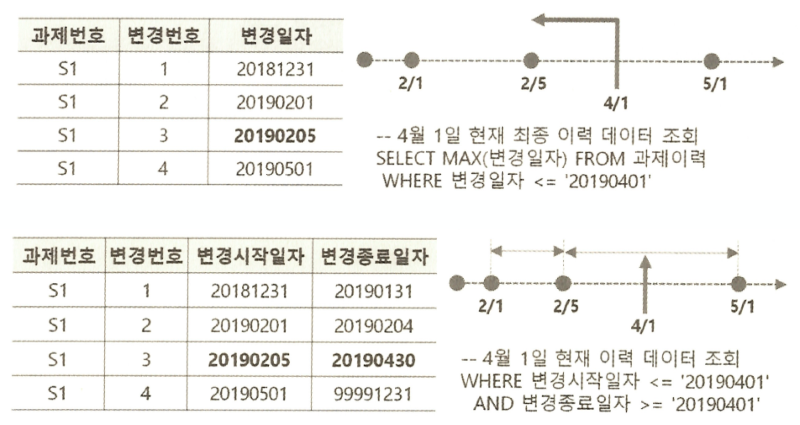
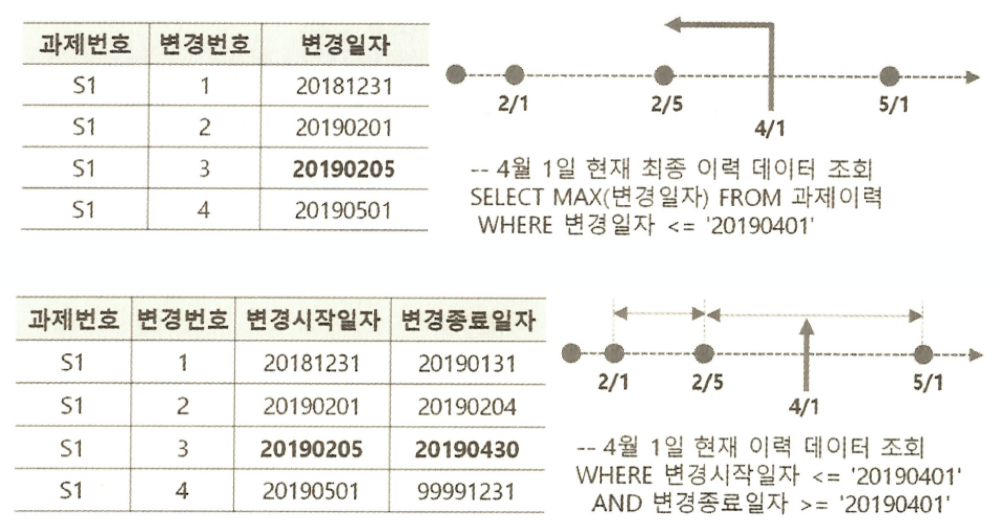
논리 모델링 정리

diff --git a/modeling/03-logical-modeling.md b/modeling/03-logical-modeling.md
@@ -1,51 +1,246 @@
-# 3장. 논리 모델링 — 업무 규칙을 데이터 구조로 표현하기
+# 3장. 논리 모델링
 
-논리 모델링(Logical Data Modeling)은 개념 모델의 핵심 엔티티를 출발점으로 **한 건의 의미, 식별자, 속성, 관계, 허용값**을 구체화하는 단계다. 업무 규칙은 상세히 정하되 특정 DBMS의 저장 방식은 물리 설계에서 결정한다.
+1. [논리 모델링 개요](#1-논리-모델링-개요)
+2. [핵심 엔티티와 파생 엔티티](#2-핵심-엔티티와-파생-엔티티)
+3. [엔티티 도출과 정의](#3-엔티티-도출과-정의)
+4. [엔티티 통합과 데이터 통합](#4-엔티티-통합과-데이터-통합)
+5. [관계, 속성, 식별자, 도메인 도출 및 정의](#5-관계-속성-식별자-도메인-도출-및-정의)
+6. [데이터 모델 검토](#6-데이터-모델-검토)
+7. [데이터 표준화](#7-데이터-표준화)
 
-## 1. 핵심 엔티티에서 상세·상태·이력으로 확장하기
+<br>
 
-핵심 엔티티를 정의할 때는 이름과 함께 **어떤 대상이 언제 한 건으로 등록되는지** 적는다. ‘고객’이라면 비회원도 포함하는지에 따라 데이터의 범위가 달라진다. 유형·분류, 업무 규칙, 주체·대상, 장소도 업무에서 따로 관리하면 엔티티 후보가 된다.
+## 1. 논리 모델링 개요
 
-![품의를 중심으로 거래처·진행상태·첨부파일·내역·이력을 분리한 모델](../assets/images/modeling-derived-entities.png)
+**논리 모델링**(Logical Data Modeling)은 개념 모델링에서 파악한 핵심 엔티티와 주요 관계를 바탕으로, 업무 규칙을 반영해 데이터 구조를 구체화하는 단계다.
 
-*수업 PPT 46쪽. 품의 한 건에 항목이 여러 개면 품의내역에 한 줄씩 기록한다. 거래처와의 연결에 계약금액이 붙으면 그 금액은 품의거래처에서 관리한다.*
+- 비즈니스 전체 영역의 데이터 구조를 상세하게 설계한다.
+- 주제영역 단위로 논리 모델링을 진행한다.
+- 핵심 엔티티를 중심으로 하위 엔티티까지 확장한다.
+- DBMS의 물리적 특성은 물리 모델링에서 고려한다.
+- 개념 모델과 구조적 일관성을 유지한다. 핵심 엔티티나 주요 관계가 달라지면 개념 모델에도 반영한다.
 
-**이력(History)**은 과거 시점의 값을 다시 알아야 할 때 관리한다. 먼저 이력을 남길 속성과 현재값의 저장 위치를 정한다. 현재값을 별도로 보관한다면 이력과 함께 갱신하는 규칙도 필요하다.
+<br>
 
-![같은 날짜의 상태를 변경일자 또는 유효기간으로 찾는 방법](../assets/images/modeling-history.png)
+## 2. 핵심 엔티티와 파생 엔티티
 
-*수업 PPT 47쪽. 4월 1일의 상태를 찾을 때, 점 이력은 그날까지의 마지막 변경(2월 5일)을 찾고, 선분 이력은 그날이 들어가는 기간(2월 5일~4월 30일)을 찾는다. 선분 이력은 같은 대상의 유효기간이 겹치지 않게 관리해야 한다.*
+### 핵심 엔티티
 
-## 2. 엔티티 통합과 관계 정의
+**핵심 엔티티**(Key Entity)는 업무에서 독립적으로 식별하고 관리하는 기준 정보를 말한다.
 
-![개인고객과 법인고객의 공통 속성을 고객으로 통합한 모델](../assets/images/modeling-entity-integration.png)
+- 유형 및 분류(type & category): 고객 유형 코드, 상품 분류(대중소)
+- 업무 규칙 및 지식(rule & knowledge): 보험료 조건, 직급별 연봉, 환불 정책
+- 업무 주체 및 대상(subject & object): 고객, 상품, 사원, 예금
+- 장소(where): 물류창고, 공장, 강의장
 
-*수업 PPT 50쪽. 공통 속성을 상위 유형에 모으는 과정이 일반화(Generalization), 유형별 특성을 하위 유형으로 구체화하는 과정이 특수화(Specialization)다.*
+ex) 고객은 누구인가? 비회원도 고객? 외국인도 고객? 고객을 등록하기 위한 최소한의 정보는?
 
-엔티티를 통합할 때는 이름뿐 아니라 **분류 기준·식별 기준·속성의 의미**도 맞춰야 한다. 관계는 양쪽에서 읽으며 최대 몇 건까지 연결되는지(관계수), 연결이 필수인지(선택성), 부모 식별자가 자식의 식별자에 포함되는지(식별 관계)를 각각 결정한다.
+### 파생 엔티티
 
-## 3. 식별자·속성·도메인 결정하기
+**파생 엔티티**는 핵심 엔티티와 관련된 정보를 별도로 관리하기 위한 엔티티이다. 대표적인 유형으로는 상세, 상태, 이력, 교차 엔티티가 있다.
 
-**수강신청 실습에 적용한 예시** — 한 건을 ‘학생이 특정 훈련과정에 제출한 신청 한 번’으로 정의한 경우다.
+예를 들어, 사무용품 구매 승인을 요청하는 품의서에 ‘복사용지 3상자’와 ‘토너 2개’를 적을 수 있다. 이때 승인 요청은 한 번이므로 `품의`는 한 건이고, 구매 항목은 두 가지이므로 `품의내역`은 두 건이다.
 
-| 설계 항목 | 결정과 이유 |
-| --- | --- |
-| 식별자(Identifier) | 신청ID로 각 신청을 구별한다. 같은 학생의 같은 과정 재신청을 허용할지는 별도 업무 규칙이다. 인조 식별자만으로는 중복 신청을 막을 수 없다. |
-| 관계(Relationship) | 신청 한 건에는 학생 한 명이 필요하고, 학생에게는 아직 신청이 없을 수 있다. |
-| 속성(Attribute) | 신청일시는 제출 시점에 필수다. 승인일시를 관리한다면 접수 단계에서는 값이 없을 수 있다. |
-| 도메인(Domain) | 신청상태의 허용값을 예컨대 ‘접수·승인·반려’로 정한다. 기본값은 실제 의미가 있을 때 정한다. 미입력 점수를 0으로 기록하면 평균 계산에 포함된다. |
+![품의를 중심으로 품의내역·진행상태·첨부파일·이력·거래처를 연결한 ERD](../assets/images/modeling-derived-entities.png)
 
-식별자 후보는 **유일성·최소성·존재성·안정성**을 확인한다. 속성에는 뜻, 필수 여부, 값의 범위와 단위를 기록한다.
+- **상세 엔티티 — 품의내역**  
+  품의 제목과 작성일은 품의 한 건에 대해 한 번만 기록한다. 수량과 단가는 품목마다 다를 수 있으므로 `품의내역`에 항목별로 기록한다.
 
-## 4. 표준화하고 요구사항과 대조하기
+- **상태 엔티티 — 품의진행상태**  
+  품의가 어떤 단계를 거쳤는지 알 수 있도록 진행상태와 처리 일시를 기록한다. 예를 들어 검토를 거쳐 승인됐다면, 언제 검토했고 언제 승인했는지 확인할 수 있다.
 
-| 표준화 대상 | 무엇을 통일하는가 | 예시 |
-| --- | --- | --- |
-| 단어·영문 약어 | 같은 개념의 표기 | ‘신청’을 한 가지 표준 단어로 사용 |
-| 용어 | 단어를 조합한 명칭과 정의 | ‘신청일시’는 신청을 제출한 시각 |
-| 도메인 | 공통으로 적용할 값의 형식과 범위 | 일자와 일시를 구분 |
-| 코드 | 허용값, 코드의 의미와 부여 방식 | 접수·승인·반려에 일관된 상태코드 부여 |
+- **품의첨부파일**  
+  품의서에 견적서나 제품 사양서처럼 여러 파일을 첨부할 수 있다. `품의첨부파일`은 파일 하나를 한 건으로 관리하므로, 같은 품의에 견적서 두 개를 첨부하면 두 건이 생긴다.
 
-마지막으로 요구사항 한 줄을 실제 모델에서 따라가 본다. ‘지난달 말의 신청상태를 조회한다’는 요구가 있다면 현재 상태만으로는 답할 수 없다. 이처럼 자체 검토와 동료 검토로 빠진 구조를 찾고, 해석이 갈리는 업무 규칙은 현업 담당자와 확인한다.
+- **이력 엔티티 — 품의이력**  
+  같은 품의에 대해 이력을 남길 때마다 그때의 품의일자와 품의금액을 한 건으로 기록한다. 각 기록은 이력일련번호로 구분하므로 이전에 기록한 금액도 확인할 수 있다.
 
-수업 자료 — 『DB모델링 all PPT』 PDF 43~64쪽. 수강신청 정책과 표준화 예시는 설명을 위한 가정이다.
+- **교차 엔티티 — 품의거래처**  
+  하나의 품의에 여러 거래처가 참여할 수 있고, 같은 거래처가 여러 품의에 참여할 수도 있다. 계약금액은 품의와 거래처의 조합에 따라 달라지므로 `품의거래처`에 품의번호·거래처번호와 함께 기록한다.
+
+### 이력 관리 방법
+
+이력을 설계할 때는 어떤 속성을 남길지, 변경을 시점과 기간 중 어떤 방식으로 기록할지, 현재 값까지 이력에 포함할지를 정한다.
+
+#### 속성 전체 vs 속성 일부 이력 관리
+
+과제명이 바뀐 상황을 예로 들면, 이력에 남기는 범위가 다르다.
+
+- **속성 전체** — 변경 당시의 과제명, 담당자, 상태 등 과제 정보 전체를 한 건으로 남긴다. 당시 과제의 상태를 한꺼번에 확인할 수 있다.
+- **속성 일부** — 추적할 속성을 정해 그 값의 이력만 남긴다. 과거 과제명만 조회하면 된다면 과제번호와 변경 시점을 기준으로 과제명의 이력을 관리한다.
+
+#### 점 이력 vs 선분 이력
+
+과거의 특정 날짜에 어떤 과제명을 사용했는지 조회하려면, 과제명과 함께 시간 정보도 기록해야 한다.
+
+![과제명 변경을 점 이력과 선분 이력으로 표현한 표와 시간축](../assets/images/modeling-history.png)
+
+- **점 이력** — 값이 바뀐 시점을 기록한다. 4월 1일의 과제명을 찾으려면 해당 과제의 기록 중 변경일자가 4월 1일이거나 그보다 앞선 가장 최근 기록을 찾는다.
+- **선분 이력** — 각 값이 유효한 시작일과 종료일을 기록한다. 4월 1일을 포함하는 기간을 찾으면 당시 과제명을 알 수 있다.
+
+#### 최종 데이터 포함 vs 미포함
+
+여기서 최종 데이터는 **현재 사용 중인 값**을 뜻한다. 과제명이 `질의형 검색`에서 `질의응답형 검색`으로 바뀌었다고 하자.
+
+![과제명을 변경한 뒤 현재 값을 이력에서 제외한 경우와 포함한 경우](../assets/images/modeling-history-current.png)
+
+- **최종 데이터 미포함(왼쪽)** — 이력에는 이전 이름인 `질의형 검색`만 남긴다. 현재 이름인 `질의응답형 검색`은 과제 테이블에서 확인한다.
+- **최종 데이터 포함(오른쪽)** — 이전 이름과 현재 이름을 모두 이력에 남긴다. 이력 테이블의 가장 최근 기록에서도 `질의응답형 검색`을 확인할 수 있다.
+
+<br>
+
+## 3. 엔티티 도출과 정의
+
+### 엔티티 도출 및 식별
+
+현행 데이터를 분석하여 엔티티로 구체화한다.
+
+- 현업의 기능 및 요구사항을 정의하면서 엔티티를 도출 및 식별
+- 현행 모델에서 불필요한 것을 식별하여 삭제
+- 엔티티명, 관계, 속성명을 정리하고 현업과 인터뷰로 확정
+- 엔티티 통합과 용어의 통일
+
+(기존 데이터베이스 구조를 분석해 논리 모델을 파악하는 방법을 **리버스 모델링**(Reverse Modeling)이라고 한다.)
+
+### 엔티티 정의
+
+데이터 집합을 규정, 발생 규칙, 업무 규칙, 설명을 기술한다.
+
+- 독립적인 엔티티는 주민번호, 상품번호와 같은 식별자 중심으로 정의
+- 종속 엔티티는 엔티티간의 관계를 파악하여 집합 단위 or 데이터 발생 기준을 정의
+- 엔티티를 정의하는 방법
+  1. 엔티티 자체만으로 정의
+  2. 엔티티에서 관리하는 속성 중심으로 파악하여 정의
+  3. 다른 엔티티와의 관계를 바탕으로 정의
+
+<br>
+
+## 4. 엔티티 통합과 데이터 통합
+
+### 엔티티 통합
+
+- **일반화(Generalization)** — 여러 엔티티의 공통점을 찾아 상위 엔티티로 묶는다. 예를 들어 개인고객과 법인고객이 공통으로 갖는 고객번호와 고객명은 `고객`에서 관리한다.
+- **특수화(Specialization)** — 상위 엔티티를 업무상 의미 있는 하위 유형으로 나눈다. 예를 들어 `고객`을 `개인고객`과 `법인고객`으로 구분하고, 법인등록번호는 `법인고객`에서 관리한다.
+
+![개인고객과 법인고객을 고객으로, 여러 상품 유형을 상품으로 묶은 ERD](../assets/images/modeling-entity-integration.png)
+
+### 데이터 통합
+
+데이터의 분류 체계, 식별 체계, 속성 체계를 일원화하는 과정
+
+![데이터 통합을 위해 분류체계·식별체계·속성체계를 일원화하는 과정](../assets/images/modeling-data-integration.png)
+
+<br>
+
+## 5. 관계, 속성, 식별자, 도메인 도출 및 정의
+
+### ① 관계 도출 및 정의
+
+관계를 도출할 때는 **두 엔티티가 업무에서 어떤 역할로 연결되는지** 확인한다. 엔티티 간의 관계에는 종속 관계, 참조 관계가 있다.
+
+- 행위의 주체, 대상, 상세, 인과, 역할/자격, 구성, 참조 관계 등으로 구분
+- 각 관계는 양방향으로 읽으면서 **몇 건까지 연결될 수 있는지(관계수)**, **반드시 연결되어야 하는지(선택성)**, **식별자 상속** 을 정한다. 역할을 구별할 필요가 있으면 관계명을 붙인다.
+
+![부서와 사원 사이의 소속부서 관계와 부서장 관계](../assets/images/modeling-department-employee-relationships.png)
+
+- **소속부서(위쪽 선)** — 한 사원의 소속을 알고 싶으면 `사원`에 기록된 `부서번호`로 해당 부서를 찾는다. 같은 부서번호를 가진 사원들을 모으면 그 부서의 구성원도 알 수 있다.
+- **부서장(아래쪽 선)** — 한 부서의 부서장을 알고 싶으면 `부서`에 기록된 `부서장사원번호`로 해당 사원을 찾는다.
+
+### ② 속성 도출 및 정의
+
+속성을 도출할 때는 **해당 엔티티에 대해 무엇을 알아야 하는지** 살펴본다.
+
+- 속성의 정의, 이름, 설명, 데이터 타입, 데이터 범위 등을 정의
+- 속성이 만족해야 하는 조건이나 참조, 필수/선택 여부 등을 정의
+- 속성의 이름은 이해하기 쉽게 자세히. 주제 영역 내에서 동일한 의미를 가져야 한다.
+- 속성의 이름만으로 설명이 어렵다면, 별도의 설명으로 상세히 기술한다.
+
+### ③ 식별자 지정
+
+- **식별자**(Identifier)의 특성(유일성, 존재성, 불변성, 최소성)에 맞는 속성을 선택한다.
+- 주 식별자는 반드시 값이 있어야 하며, 그 값의 조합은 각 건을 유일하게 구별해야 한다.
+
+<br>
+
+<details>
+<summary>인조 식별자는 언제 고려할까?</summary>
+
+![거래처번호, 입찰번호, 카드관리번호를 사용한 인조 식별자 예시](../assets/images/modeling-surrogate-identifier.png)
+
+- **업무 절차상 먼저 등록해야 할 때** — 사업자등록번호를 나중에 입력하는 거래처도 있다. 등록 시점에 `거래처번호`를 부여하면 사업자등록번호가 없어도 거래처를 구별할 수 있다.
+- **복합키를 단순화할 때** — 발주번호와 입찰마감일자의 조합으로 구별하던 입찰에 `입찰번호`를 부여한다. 그러면 `입찰업체`는 자신이 참여한 입찰을 `입찰번호` 하나로 참조할 수 있다.
+- **암호화 대상 정보를 식별에 사용해야 할 때** — 카드번호는 암호화해 보관하고, 다른 데이터에서 카드를 참조할 때는 별도로 부여한 `카드관리번호`를 사용한다.
+- 여러 엔티티를 통합할 때 모든 유형에 공통으로 쓸 식별자가 없다면, 통합 엔티티에 새 식별자를 부여할 수 있다.
+
+</details>
+
+### ④ 도메인 및 데이터 타입 지정
+
+**도메인**(Domain)은 속성에 허용되는 값의 집합이다. 각 속성의 의미에 맞게 데이터 타입과, 범위, 조건을 지정한다.
+
+- 값을 반드시 입력해야 하는지, 비워 둘 수 있는지 정한다.
+- 속성에 맞는 타입과 길이를 일관되게 지정 (문자열의 경우 넉넉히)
+- 입력값이 없을 때 사용될 default값 지정 (default 0에 의해 평균값이 달라질 수 있으니 주의)
+
+<br>
+
+## 6. 데이터 모델 검토
+
+요구사항이 모두 반영되었는지 오류는 없는지 검토
+
+- 자체 검토 - 체크 리스트 작성 및 확인.
+- 동료 검토 - 타인과 질문 답변을 통한 제 3자 확인 검토
+- 이해 관계자 리뷰 - 현업, 현업 운영자 등 관계자를 대상으로 설명 및 의견 반영
+- 산출물을 통한 검토 - 요구사항 추적표(산출물) 등을 통한 검토
+
+<br>
+
+## 7. 데이터 표준화
+
+**데이터 표준화**(Data Standardization)는 여러 업무에서 같은 의미의 데이터를 일관된 이름과 형식으로 사용하도록 기준을 정하는 일이다.
+
+| 대상   | 정하는 내용                                                                   | 예시                                                      |
+| ------ | ----------------------------------------------------------------------------- | --------------------------------------------------------- |
+| 단어   | 이름을 구성하는 단어의 뜻과 표준 표기, 영문 약어를 정한다.                    | 고객 → `CUST`, 전화번호 → `TELNO`                         |
+| 도메인 | 같은 성격의 속성에 적용할 데이터 타입·길이·허용값을 정한다.                   | ‘여부’는 한 자리 문자로 표현하고 `Y` 또는 `N`을 허용한다. |
+| 코드   | 분류하려는 값을 목록으로 만들고 코드별 의미를 정한다.                         | 결재상태에서 `01`은 기안, `02`는 승인이다.                |
+| 용어   | 표준 단어를 조합해 실제 속성의 한글명·영문명·정의를 정하고 도메인을 연결한다. | 고객전화번호 → `CUST_TELNO`, 전화번호 도메인 적용         |
+
+<br>
+
+<details>
+<summary>표준화 예시</summary>
+
+**단어·도메인·용어의 관계**
+
+![표준 단어를 조합해 용어를 만들고 도메인으로 데이터 형식을 정하는 과정](../assets/images/modeling-standardization-overview.png)
+
+**① 단어 표준화**
+
+단어사전에 대표 표기와 약어를 등록한다. 같은 뜻의 단어가 여러 개일 때 어떤 단어를 쓸지, 새 영문 약어는 어떻게 지을지도 정한다.
+
+![단어사전의 고객·전화번호 정의와 영문 약어](../assets/images/modeling-standard-word-dictionary.png)
+
+![표준 단어의 명명 규칙과 동의어 관리 기준](../assets/images/modeling-standard-word-rules.png)
+
+![영문 약어의 길이와 축약 기준](../assets/images/modeling-standard-abbreviation-rules.png)
+
+**② 도메인 표준화**
+
+![코드·여부·명칭·일자·금액 등에 적용하는 도메인과 유효값](../assets/images/modeling-standard-domain.png)
+
+**③ 코드 표준화**
+
+코드값은 코드 유형과 함께 읽는다. 아래 사전에서 같은 `01`도 결재상태에서는 ‘기안’, 결재수단에서는 ‘신용카드’를 뜻한다.
+
+![코드 유형별 코드값과 코드명을 정리한 코드 사전](../assets/images/modeling-standard-code-dictionary.png)
+
+![분류형·일련번호형·약어형·차용형 코드 체계의 예시](../assets/images/modeling-standard-code-types.png)
+
+**④ 용어 표준화**
+
+![고객전화번호 등 실제 속성의 영문명·정의·도메인을 연결한 용어 사전](../assets/images/modeling-standard-term.png)
+
+</details>
+
+<br>

diff --git a/modeling/02-conceptual-modeling.md b/modeling/02-conceptual-modeling.md
@@ -1,4 +1,11 @@
-# 2장. 개념 모델링 — 업무 범위와 핵심 엔티티
+# 2장. 개념 모델링
+
+1. [데이터 모델링의 전체 과정](#1-데이터-모델링의-전체-과정)
+2. [개념 모델링이란?](#2-개념-모델링이란)
+3. [주제영역 도출·분류·정의](#3-주제영역-도출분류정의)
+4. [핵심 엔티티 식별하기](#4-핵심-엔티티-식별하기)
+5. [주요 관계 파악하기](#5-주요-관계-파악하기)
+6. [식별자와 주요 속성 정의하기](#6-식별자와-주요-속성-정의하기)
 
 ## 1. 데이터 모델링의 전체 과정
 
@@ -13,15 +20,19 @@
 | 논리 모델링              | 엔티티별 식별자·속성과 관계를 상세히 정의해 업무 규칙을 모델에 반영한다.                           |
 | 물리 모델링              | 사용할 DBMS에 맞춰 테이블·컬럼·제약조건·인덱스를 설계한다.                                         |
 
+<br>
+
 ## 2. 개념 모델링이란?
 
 **개념 모델링(Conceptual Data Modeling)은 업무 요구사항을 바탕으로 전체 데이터의 구조를 큰 틀에서 설계하는 단계다.** 관련 데이터를 주제영역으로 묶고, 각 영역에서 관리할 핵심 엔티티와 그 사이의 관계를 정한다.
 
+<br>
+
 ## 3. 주제영역 도출·분류·정의
 
-**주제영역(Subject Area)**은 업무상 관련이 깊은 데이터를 묶은 범위다. 업무가 크면 영역을 계층적으로 나누고, 각 영역에 어떤 정보까지 포함할지 정한다.
+**주제영역(Subject Area)** 은 업무상 관련이 깊은 데이터를 묶은 범위다. 업무가 크면 영역을 계층적으로 나누고, 각 영역에 어떤 정보까지 포함할지 정한다.
 
-| 단계 | 인터넷뱅킹에 적용하면                                                                                                         |
+| 단계 | 단계별 핵심 내용                                                                                                              |
 | ---- | ----------------------------------------------------------------------------------------------------------------------------- |
 | 도출 | 가입·조회 메뉴와 업무 자료를 살펴보고 고객 정보, 상품 정보, 계좌 정보처럼 업무에서 관리해야 할 정보 묶음을 찾는다.            |
 | 분류 | 같은 고객이 예금과 대출에 모두 등장해도 고객 정보는 한데 모은다. 고객은 업무의 주체, 금융상품은 가입 대상으로 구분할 수 있다. |
@@ -29,17 +40,23 @@
 
 ![인터넷뱅킹 데이터를 주체·대상 및 자원·약정 및 계약·행위상세로 분류한 그림](../assets/images/modeling-subject-areas.png)
 
+<br>
+
 ## 4. 핵심 엔티티 식별하기
 
 주제영역별로 **업무에서 개별적으로 구분해 관리해야 하는 대상이나 사건**을 찾는다. 엔티티(Entity) 후보를 찾으면 그 엔티티의 한 건이 실제 업무에서 무엇을 뜻하는지 한 문장으로 정의한다.
+
+<br>
 
 ## 5. 주요 관계 파악하기
 
 업무 흐름을 따라 **어떤 엔티티들이 서로 연결되고 그 연결이 무엇을 뜻하는지** 확인한다. 두 엔티티를 업무에서 쓰는 동사로 연결해 문장을 만들면 관계(Relationship)의 의미가 드러난다. 관계수와 선택성 등 세부 규칙은 논리 모델링에서 구체화한다.
 
+<br>
+
 ## 6. 식별자와 주요 속성 정의하기
 
-**식별자(Identifier)**는 각 건을 유일하게 구별하는 속성 또는 속성의 조합이다. 한 건의 의미를 기준으로 무엇이 그 건을 구별하는지 확인하고, 업무에서 그 건에 대해 알아야 할 **주요 속성(Attribute)**을 정한다. 이 단계에서는 현업 담당자가 모델을 보고 업무 의미를 확인할 수 있을 정도면 충분하다.
+**식별자(Identifier)** 는 각 건을 유일하게 구별하는 속성 또는 속성의 조합이다. 한 건의 의미를 기준으로 무엇이 그 건을 구별하는지 확인하고, 업무에서 그 건에 대해 알아야 할 **주요 속성(Attribute)**을 정한다. 이 단계에서는 현업 담당자가 모델을 보고 업무 의미를 확인할 수 있을 정도면 충분하다.
 
 <br>
 
